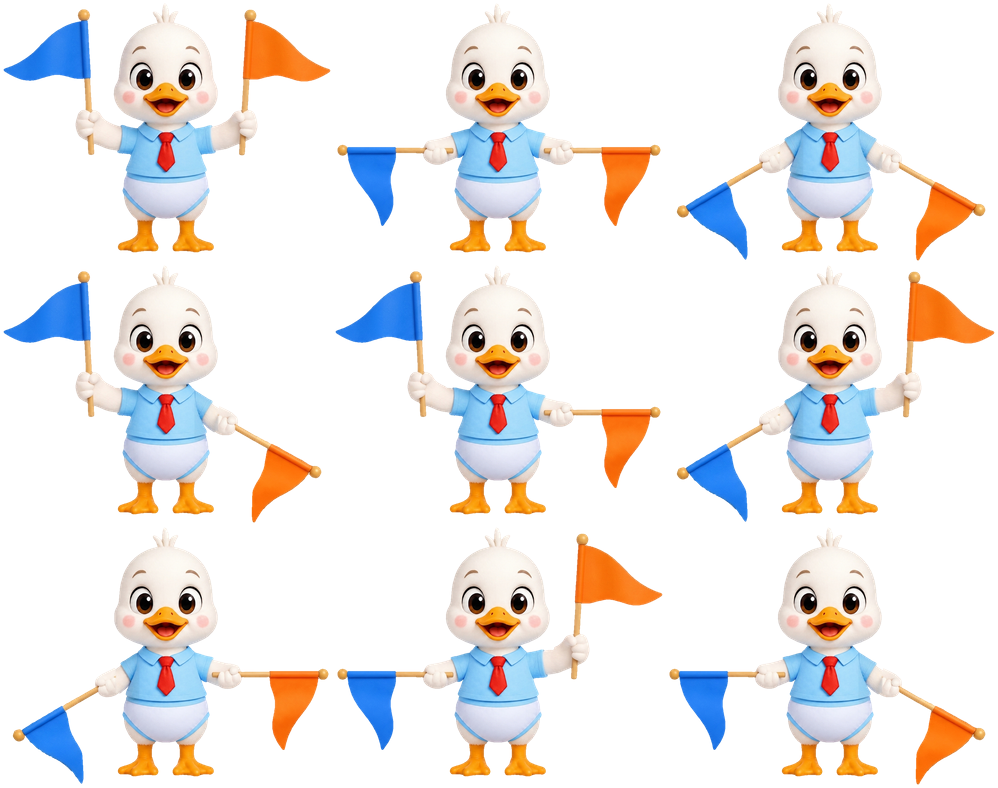
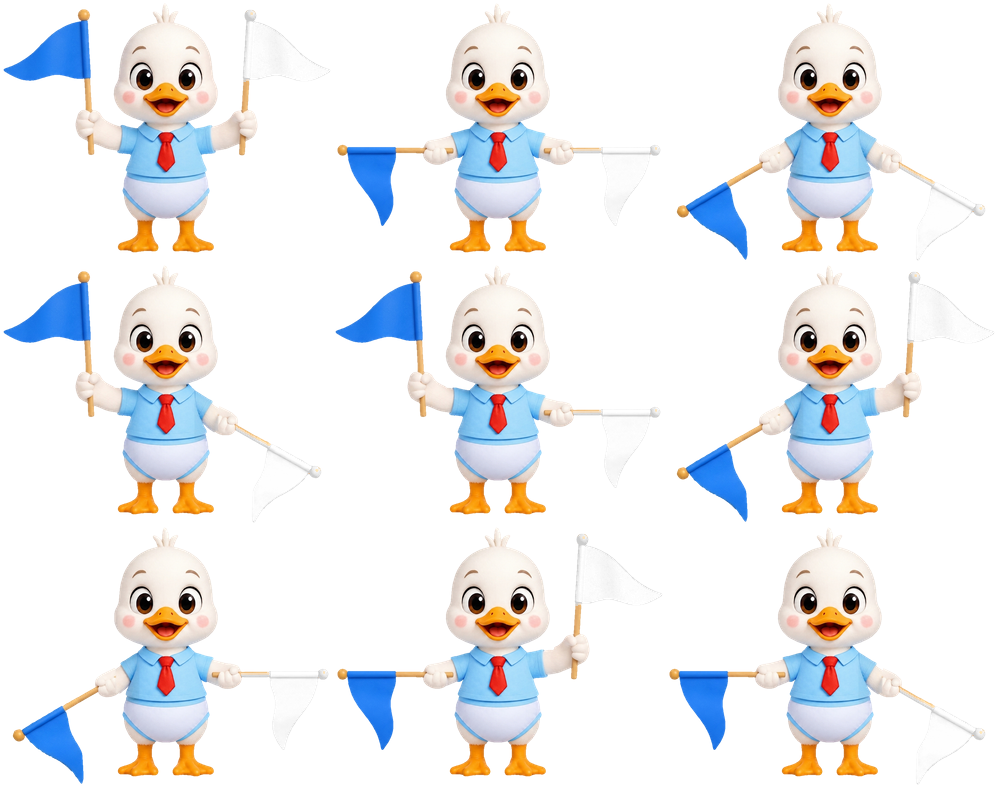
청기백기_이미지수정

diff --git a/src/games/flag/FlagDuck.ts b/src/games/flag/FlagDuck.ts
@@ -32,9 +32,9 @@ const POSE_TABLE: Record<FlagMove, Record<FlagMove, DuckPose>> = {
 const POSES: DuckPose[] = Object.values(POSE_TABLE).flatMap((row) => Object.values(row));
 const POSE_BOTH_KEEP = POSE_TABLE[FLAG_KEEP][FLAG_KEEP];
 
-// 프레임 안 오리 발 가운데 좌표(px)를 기준점으로 쓴다(json pivot 은 프레임 가운데라 쓰지 않는다).
-// duck_flags.png 에서 잰 값이다 — 9프레임 모두 같은 자리에 서 있다. 그림을 바꾸면 다시 재야 한다.
-const DUCK_FEET = { x: 164, y: 249 };
+// 프레임 안 오리 발 가운데 좌표(px)를 기준점으로 쓴다(json 에는 기준점 정보가 없다).
+// duck_flags.png(2026-10-29 교체본, 998x788)에서 잰 값이다 — 9프레임 모두 같은 자리에 서 있다. 그림을 바꾸면 다시 재야 한다.
+const DUCK_FEET = { x: 163, y: 249 };
 // 시트 속 오리 높이(머리 깃털 ~ 발끝, px).
 const SHEET_DUCK_HEIGHT = 247;
 

diff --git a/src/games/rps/RpsFlagDuck.ts b/src/games/rps/RpsFlagDuck.ts
@@ -19,9 +19,9 @@ const POSE_FRAME: Record<DuckPose, string> = {
   duck_orange_flag_up: "06_right-down_left-up.png",
   duck_both_flags_up: "01_right-up_left_up.png",
 };
-// 프레임 안 오리 발 가운데 좌표(px)를 기준점으로 쓴다(json pivot 은 프레임 가운데라 쓰지 않는다).
-// duck_flags.png 에서 잰 값이다 — 9프레임 모두 같은 자리에 서 있다. 그림을 바꾸면 다시 재야 한다.
-const DUCK_FEET = { x: 164, y: 249 };
+// 프레임 안 오리 발 가운데 좌표(px)를 기준점으로 쓴다(json 에는 기준점 정보가 없다).
+// duck_flags.png(2026-10-29 교체본, 998x788)에서 잰 값이다 — 9프레임 모두 같은 자리에 서 있다. 그림을 바꾸면 다시 재야 한다.
+const DUCK_FEET = { x: 163, y: 249 };
 // 시트 속 오리 높이(머리 깃털 ~ 발끝, px) — 모든 프레임이 같다.
 const SHEET_DUCK_HEIGHT = 247;
 
